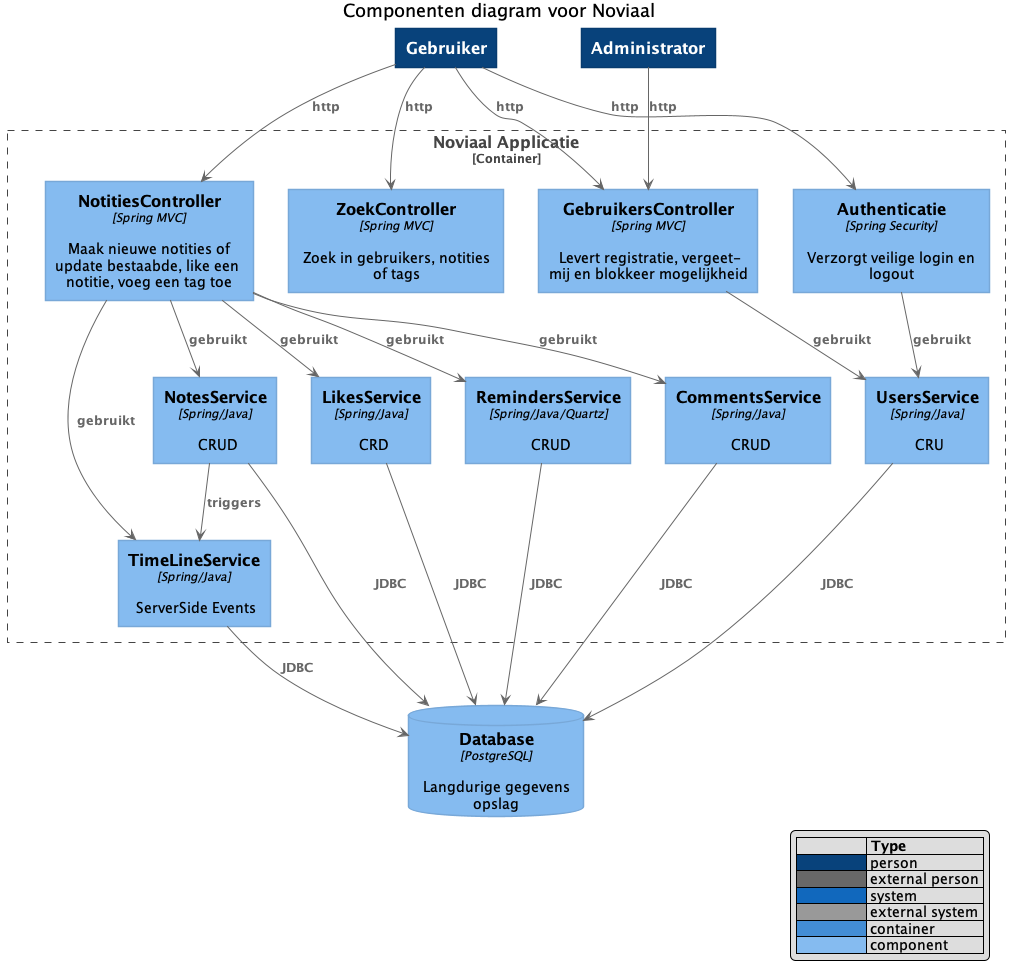
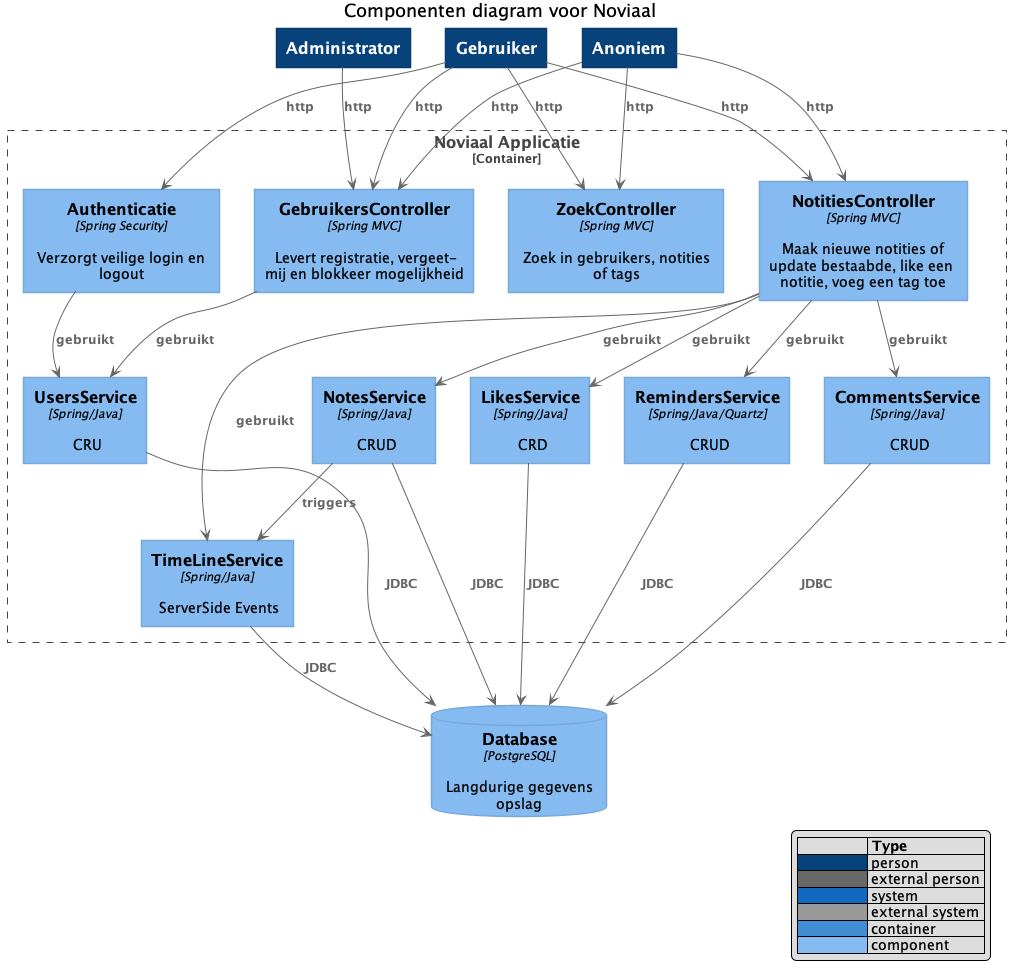
Updates nav voortschrijdend inzicht.

diff --git a/src/main/java/nl/novi/comfig/WebSecurityConfig.java b/src/main/java/nl/novi/comfig/WebSecurityConfig.java
@@ -1,5 +1,6 @@
 package nl.novi.comfig;
 
+import lombok.RequiredArgsConstructor;
 import org.springframework.context.annotation.Bean;
 import org.springframework.context.annotation.Configuration;
 import org.springframework.security.authentication.dao.DaoAuthenticationProvider;
@@ -12,41 +13,34 @@ import org.springframework.security.crypto.bcrypt.BCryptPasswordEncoder;
 
 @Configuration
 @EnableWebSecurity
-public class SecurityConfig extends WebSecurityConfigurerAdapter {
+@RequiredArgsConstructor
+public class WebSecurityConfig extends WebSecurityConfigurerAdapter {
 
   private final UserDetailsService userDetailsService;
 
-  public SecurityConfig(UserDetailsService userDetailsService) {
-    this.userDetailsService = userDetailsService;
-  }
-
   @Bean
-  public BCryptPasswordEncoder passwordEncoder() {
-    return new BCryptPasswordEncoder();
-  }
+  public BCryptPasswordEncoder passwordEncoder() { return new BCryptPasswordEncoder(); }
 
   @Bean
   public DaoAuthenticationProvider authenticationProvider() {
-    DaoAuthenticationProvider authProvider = new DaoAuthenticationProvider();
+    final DaoAuthenticationProvider authProvider = new DaoAuthenticationProvider();
     authProvider.setUserDetailsService(userDetailsService);
     authProvider.setPasswordEncoder(passwordEncoder());
     return authProvider;
   }
 
-  protected void configure(final AuthenticationManagerBuilder auth) throws Exception {
+  protected void configure(final AuthenticationManagerBuilder auth) {
     auth.authenticationProvider(authenticationProvider());
   }
 
   @Override
   protected void configure(final HttpSecurity https) throws Exception {
-    https.authorizeRequests((authorize) -> authorize
-                                             .antMatchers("/css/**", "index").permitAll()
-                                             .antMatchers("/note/**").authenticated()
-                                             .antMatchers("/notes/**").authenticated()
-    )
-      .formLogin((formLogin) -> formLogin
-                                  .loginPage("/login")
-                                  .failureUrl("/login-error")
-      );
+    https.authorizeRequests(authorize -> authorize
+                                           .antMatchers("/css/**", "index").permitAll()
+                                           .antMatchers("/anon/**", "/register").permitAll()
+                                           .antMatchers("/admin/**").authenticated()
+                                           .antMatchers("/note/**").authenticated()
+                                           .antMatchers("/notes/**").authenticated())
+      .formLogin(formLogin -> formLogin.loginPage("/login").failureUrl("/login-error"));
   }
 }

diff --git a/src/main/java/nl/novi/comfig/ApiSecurityConfig.java b/src/main/java/nl/novi/comfig/ApiSecurityConfig.java
@@ -1,0 +1,29 @@
+package nl.novi.comfig;
+
+import lombok.RequiredArgsConstructor;
+import org.springframework.context.annotation.Configuration;
+import org.springframework.core.annotation.Order;
+import org.springframework.security.authentication.dao.DaoAuthenticationProvider;
+import org.springframework.security.config.Customizer;
+import org.springframework.security.config.annotation.authentication.builders.AuthenticationManagerBuilder;
+import org.springframework.security.config.annotation.web.builders.HttpSecurity;
+import org.springframework.security.config.annotation.web.configuration.WebSecurityConfigurerAdapter;
+
+@Configuration
+@Order(1)
+@RequiredArgsConstructor
+public class ApiSecurityConfig extends WebSecurityConfigurerAdapter {
+
+  private final DaoAuthenticationProvider authenticationProvider;
+
+  protected void configure(final AuthenticationManagerBuilder auth) {
+    auth.authenticationProvider(authenticationProvider);
+  }
+
+  @Override
+  protected void configure(HttpSecurity http) throws Exception {
+    http.csrf().disable()
+      .antMatcher("/api/**").authorizeRequests(authorize -> authorize.anyRequest().hasRole("USER"))
+      .httpBasic(Customizer.withDefaults());
+  }
+}

diff --git a/documentatie/FO/use-cases.md b/documentatie/FO/use-cases.md
@@ -8,9 +8,9 @@ Noviaal maakt het mogelijk voor geregistreerde gebruikers om aantekeningen, Note
 
 Er worden drie rollen van gebruikers (Person) onderscheiden in het Noviaal systeem:
 
-1. __User__, de normale, geregistreerde gebruiker, die vrijwel alle functies kan uitvoeren.
+1. __User__, de geregistreerde gebruiker, die vrijwel alle functies kan uitvoeren.
 2. __Admin__, de super gebruiker, die rapportages kan aanmaken en bekijken.
-3. __Reader__, een niet-geregistreerde gebruiker, die alleen de publieke tijdlijn van Users kan zien.
+3. __Reader__, een niet-geregistreerde, dus *anonieme* gebruiker met zeer beperkte functionaliteit ter beschikking.
 
 Alles wat een User kan, kan een Admin ook.
 
@@ -41,7 +41,7 @@ AC1 | Registreer nieuwe gebruiker
 Beschrijving | Om alle functionaliteit van Noviaal te gebruiken moet een persoon eerst registreren
 Actoren | Reader
 Voorwaarden | Een persoon registreert met een uniek email adres, een naam en een wachtwoord
-Happy flow | Een nog niet geregistreerde gebruiker maakt duidelijk dat hij of zij wil registreren. De aanstaande User voert een email adres in, een naam (geheel vrij, maar wel verplicht) en een password (twee maal). De nieuwe User wordt vastgelegd in de database.
+Happy flow | Een nog niet geregistreerde gebruiker maakt duidelijk dat hij of zij wil registreren. De aanstaande User voert een email adres in, een naam (geheel vrij, maar wel verplicht) en een password (twee maal). De nieuwe User wordt vastgelegd in de database. De nieuwe gebruiker kan meteen inloggen en aan de slag (om een afhankelijkheid van een email server of ander bevestigingssignaal kanaal te voorkomen).
 
 AC2 | Login
 ---:|---
@@ -156,36 +156,37 @@ IC3 | Zoek
 ---:|---
 Beschrijving | Zoek naar notities en gebruikers op basis van ingevoerde woorden.
 Actoren | Gebruiker, Reader
-Voorwaarden |
-Happy Flow |
+Voorwaarden | Geen
+Happy Flow | De gebruiker of reader voert één zoekwoord in, de applicatie toont alle notities met dat woord in titel en/of body en gebruikers met dat woord in hun email adres of naam.
 
 IC4 | Like
 ---:|---
-Beschrijving |
-Actoren |
-Voorwaarden |
-Happy Flow |
+Beschrijving | 'Like' een getoonde notitie
+Actoren | Gebruiker
+Voorwaarden | Gebruiker is ingelogd en heeft een notitie geselecteerd (middels NC2)
+Happy Flow | De gebruiker geeft aan dat een getoonde notitie ge-liked moet worden. Noviaal slaat deze keuze op in de database.
 
 IC5 | Unlike
 ---:|---
-Beschrijving |
-Actoren |
-Voorwaarden |
-Happy Flow |
+Beschrijving | Stop met 'like'n van een notitie
+Actoren | Gebruiker
+Voorwaarden | gebruiker is ingelogd en heeft een gelikede notitie geselecteerd
+Happy Flow | De gebruiker geeft aan dat de getoonde, gelikede notitie niet meer geliked hoeft te worden. Noviaal verwijdert de like uit de database.
 
 IC6 | TimeLine
 ---:|---
-Beschrijving |
-Actoren |
-Voorwaarden |
-Happy Flow |
+Beschrijving | Toon notities van gevolgde gebruikers en eigen notities op volgorde van laatste wijzigingsdatum.
+Actoren | Gebruiker, Reader
+Voorwaarden | Geen
+Happy Flow | Dit is 'home' voor alle gebruikers en readers: meest recente notities bovenaan.
 
 IC7 | Remind
 ---:|---
-Beschrijving |
-Actoren |
-Voorwaarden |
-Happy Flow |
+Beschrijving | Bij een getoonde notitie wordt een reminder aangemaakt
+Actoren | Gebruiker
+Voorwaarden | Gebruiker is ingelogd en een notitie werd geselecteerd.
+Happy Flow | Bij de getoonde notitie wordt een reminder gezet: een datum en tijd waarop de gebruiker een melding krijgt dat deze notitie aandacht nodig heeft.
+__NB__ | hoe de reminder aan de gebruiker wordt gecommuniceerd weet ik nog niet... Ik denk nu door een update voor timeline te sturen en dan in de timeline de notitie laten opvallen, zodat duidelijk is dat er iets bijzonders mee aan de hand is.
 
 
 ### Overzicht
@@ -194,29 +195,33 @@ OC1 | Zoekresultaten
 ---:|---
 Beschrijving | Toon notities en gebruikers die gevonden werden naar aanleiding van een zoek-actie (IC3)
 Actoren | Gebruiker
-Voorwaarden | Gebruier is ingelogd en heeft een zoekopdracht gegeven
-Happy Flow |
+Voorwaarden | Een gebruiker (ingelogd of anoniem) heeft een zoekopdracht gegeven.
+Happy Flow | Met het ingevoerde zoekwoord wordt door de titels en bodies van notities en emails en namen van gebruikers gezocht. De lijst met resultaten wordt getoond.
+Alternatieve Flow | als er geen resultaten werden gevonden, dan wordt dat gemeld.
 
 OC2 | Eigen notities
 ---:|---
 Beschrijving | De eigen notities worden getoond op het detailinformatie scherm van de ingelogde gebruiker
 Actoren | Gebruiker
 Voorwaarden | Gebruiker is ingelogd en heeft gekozen voor het tonen van zijn eigen profiel (GC1)
-Happy Flow |
+Happy Flow | Alle eigen notities worden getoond, volgorde kan op datum/tijd of titel zijn.
+Alternatieve Flow | Als de huidige gebruiker nog geen notities heeft, dan wordt dat gemeld.
 
 OC3 | Liked notities
 ---:|---
 Beschrijving | Toon alle notities die de huidige gebruiker heeft geliked
 Actoren | Gebruiker
 Voorwaarden | Gerbuiker is ingelogd
-Happy Flow |
+Happy Flow | De notities die geliked zijn door de huidige gebruiker worden getoond
+Alternatieve Flow | Als er nog geen gelikede notities zijn, dan wordt dat gemeld.
 
 OC4 | Reminders
 ---:|---
 Beschrijving | Toon alle notities waarvoor de huidige gebruiker een reminder heeft gezet
 Actoren | Gebruiker
 Voorwaarden | Gebruiker is ingelogd
-Happy Flow |
+Happy Flow | De gebruiker selecteert deze optie, waarna alle notities met reminders getoond worden.
+Alternatieve Flow | als er nog geen reminders ingesteld zijn, dan wordt dat gemeld.
 
 OC5 | Gevolgden
 ---:|---
@@ -224,3 +229,4 @@ Beschrijving | Toon een lijst met alle gebruikers die de ingelogde gebruiker vol
 Actoren | Gebruiker (auteur, volgers)
 Voorwaarden | De gebruiker is ingelogd
 Happy Flow | De gebruiker kiest voor de lijst met volgers. Van iedere volger op de lijst zijn de details in te zien
+Alternatieve flow | Als nog niemand gevolgd wordt, dan wordt dat gemeld.
